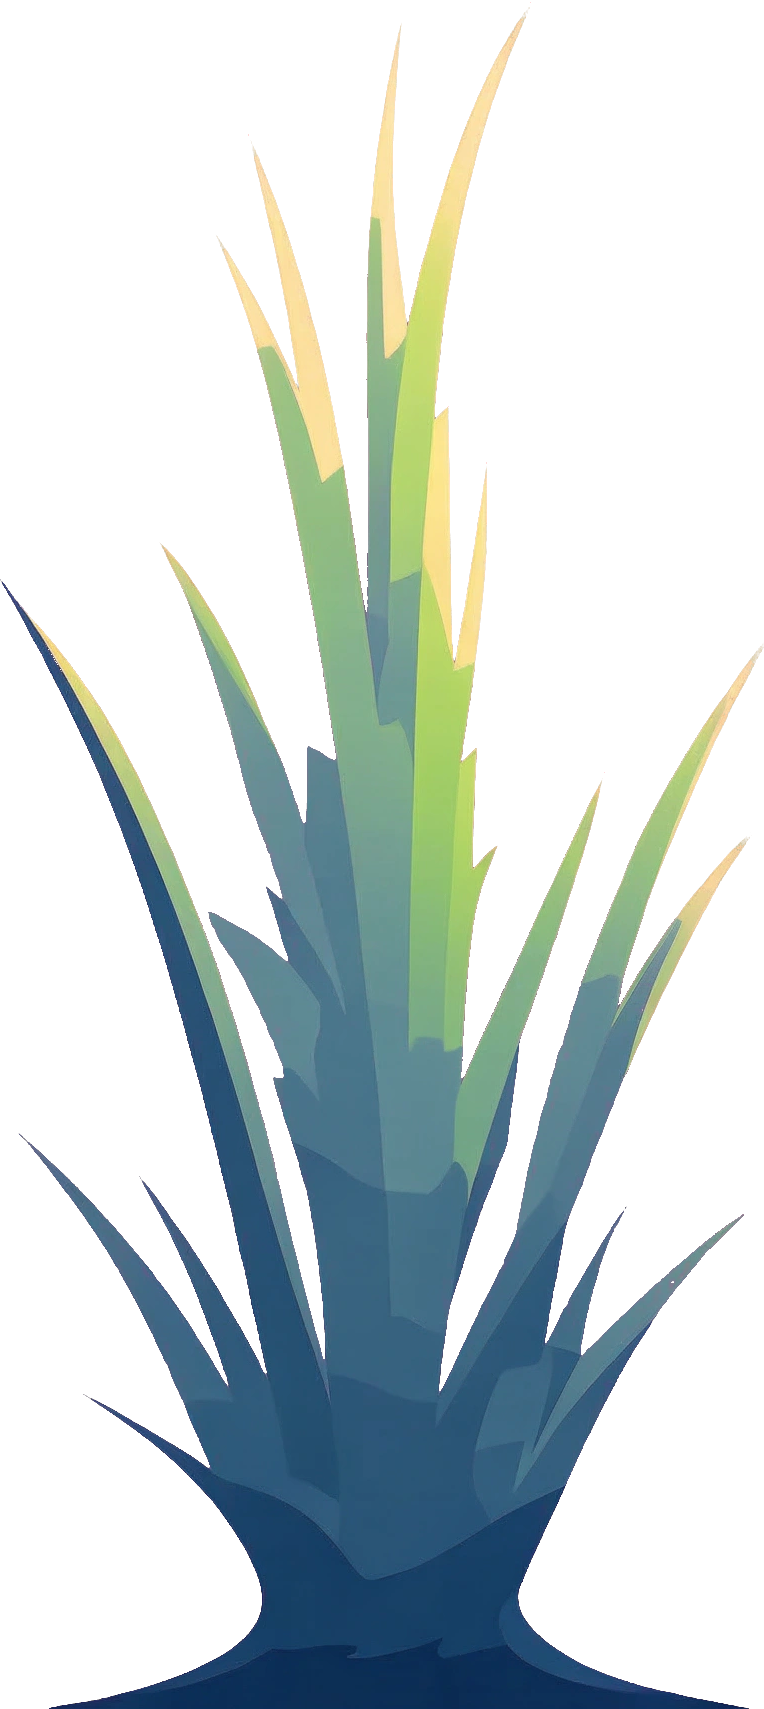
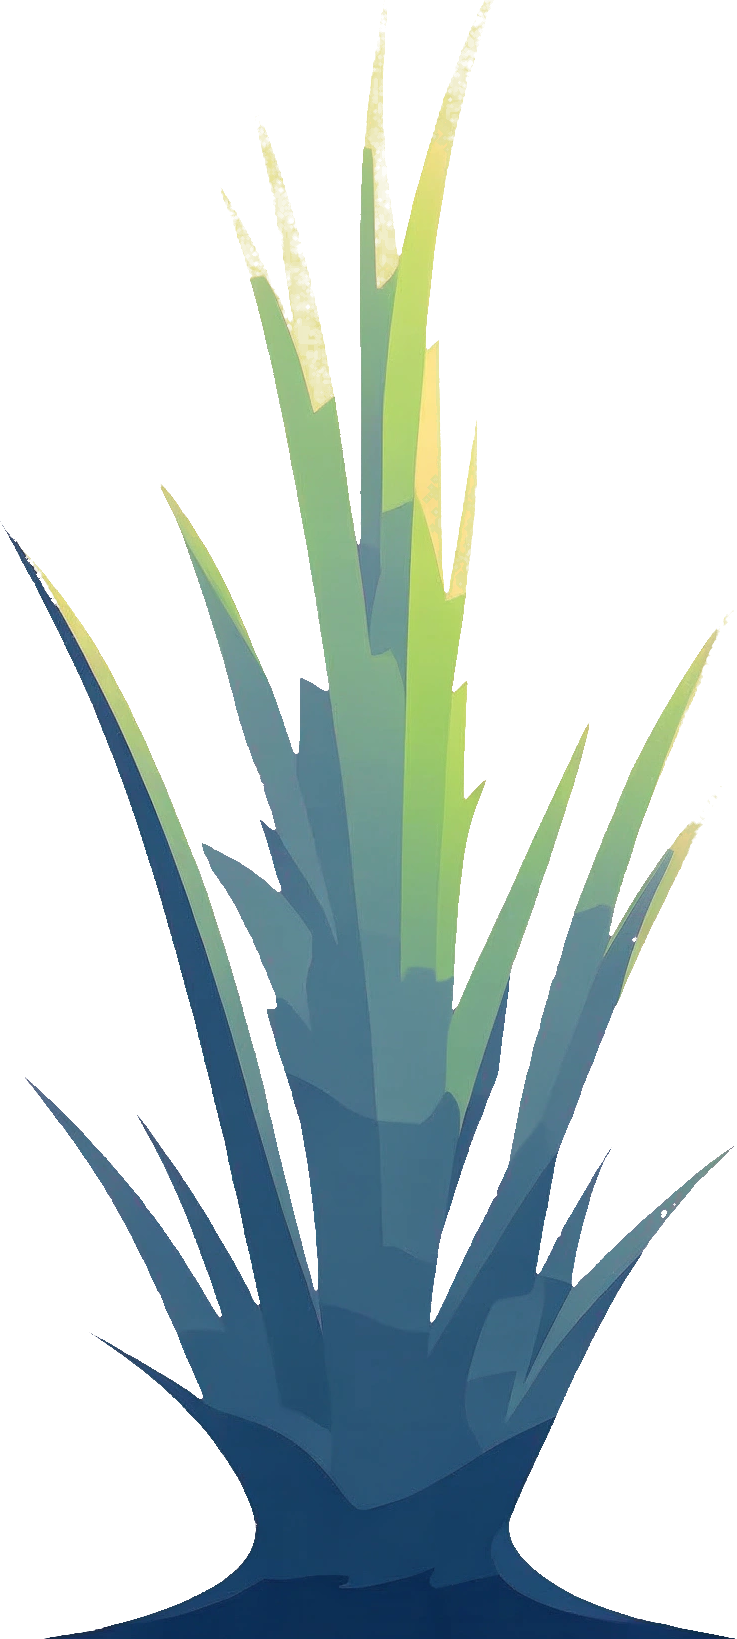
world: grade by ramp, real terrain, collision, and a foreground
Eight things were wrong and most of them were one mistake each.

Colour was rotated by hue and dimmed by brightness. That can never make a
grey log brown — grey has no hue to turn — and dimming only fades a picture
toward grey, which is why the dark moods came out pale and flat. Replaced with
a gradient map: each pixel looks up its own lightness in a five-stop ramp
belonging to the mood, so black lands on the mood's black and the whole frame
gains contrast instead of losing it. A per-asset hue bias in the manifest gives
the log its warmth back before grading. Twenty-eight percent of the original
colour is kept so leaves still read differently from a trunk.

The ground was a screen-space band with a parallax rate I picked, so it slid
faster than the world it was supposed to be part of. It is now drawn in world
space as a heightfield, and its speed follows from the projection rather than
from a number. Bands beyond the horizon now scroll by cam.x*F/D for a stated
depth, which is the same fix.

Terrain was flat; it now moves +/-2 metres and he rolls down it. Objects had no
extent, so he walked through trunks; each asset carries solid_m and he is
stopped and deflected by it. There was no foreground at all, which is what made
the canopy overlay read as decoration — six large trees now stand between two
and six metres from the camera, cut by the frame, with him passing behind them.
Object count is down by two thirds and placed in clumps around scattered
[…]

diff --git a/tools/cut_assets.py b/tools/cut_assets.py
@@ -30,10 +30,11 @@ CUT = Path("assets/cut")
 
 # Magenta sits at ~300-330°. Everything we draw is green through blue, 80-260°.
 # A generous window still leaves a wide empty gap on either side.
-BG_HUE = 315.0
-HUE_WINDOW = 62.0      # degrees either side of BG_HUE counted as background
-MIN_SAT = 0.16         # near-grey pixels are never background, whatever the hue
-SOFT = 14.0            # degrees of feathering at the edge of the window
+BG_HUE = 318.0
+HUE_WINDOW = 78.0      # degrees either side of BG_HUE counted as background
+MIN_SAT = 0.13         # near-grey pixels are never background, whatever the hue
+SOFT = 9.0             # degrees of feathering at the edge of the window
+ERODE = 1              # pixels of alpha pulled back, to eat the last of the fringe
 
 
 def _hsv(rgb: np.ndarray) -> tuple[np.ndarray, np.ndarray, np.ndarray]:
@@ -55,6 +56,23 @@ def _hsv(rgb: np.ndarray) -> tuple[np.ndarray, np.ndarray, np.ndarray]:
     return h, s, mx
 
 
+def _erode(a: np.ndarray, n: int) -> np.ndarray:
+    """Pull the alpha edge back by n pixels.
+
+    Anti-aliasing leaves a one-pixel ring that is half object and half ground.
+    Despilling fixes its colour but not its coverage, and on something like
+    foliage — which is nearly all edge — that ring is a large fraction of the
+    silhouette and still reads as a halo. Taking the minimum over the immediate
+    neighbourhood spends one pixel of the outline to be rid of it.
+    """
+    for _ in range(n):
+        p = np.pad(a, 1, mode="edge")
+        a = np.minimum.reduce([
+            p[1:-1, 1:-1], p[:-2, 1:-1], p[2:, 1:-1], p[1:-1, :-2], p[1:-1, 2:],
+        ])
+    return a
+
+
 def _alpha(rgb: np.ndarray) -> np.ndarray:
     """1 where the object is, 0 where the magenta is, feathered between."""
     h, s, _ = _hsv(rgb)
@@ -62,27 +80,35 @@ def _alpha(rgb: np.ndarray) -> np.ndarray:
     # 0 at the centre of the window, 1 once we are SOFT degrees outside it
     a = np.clip((dist - HUE_WINDOW) / SOFT, 0.0, 1.0)
     a[s < MIN_SAT] = 1.0                                   # greys are never the ground
-    return a
+    a = _erode(a, ERODE)
+    # Push what is left of the feather to one end or the other: a half-covered
+    # pixel is the halo, and there is nothing in this style that needs one.
+    return np.clip(a * 1.45 - 0.30, 0.0, 1.0)
 
 
 def _despill(rgb: np.ndarray, a: np.ndarray) -> np.ndarray:
-    """Take the magenta back out of the edge pixels it bled into.
+    """Take the magenta back out of every pixel it bled into.
 
     An anti-aliased edge is part object, part ground, so every boundary pixel
     carries some magenta. Left alone it shows up as a pink halo the moment the
     sprite is composited over anything that is not magenta. Magenta is red and
-    blue with no green, so clamping red and blue toward green removes it without
-    touching colours that were meant to be there.
+    blue with no green, so clamping red and blue toward green removes it.
+
+    The clamp runs on a band a few pixels wide rather than only on partly
+    transparent pixels: the bleed reaches further in than the alpha edge does,
+    and a fully opaque pixel one step inside the outline is still pink. Blue is
+    given more room than red, because rock and trunk are legitimately blue and
+    nothing in this art is legitimately magenta.
     """
     out = rgb.copy()
-    edge = (a > 0.02) & (a < 0.985)
-    if not edge.any():
+    near = _erode(a, 3) < 0.999                            # within ~3px of the edge
+    if not near.any():
         return out
     g = out[..., 1]
-    cap = g + 0.06
-    for c in (0, 2):
+    for c, room in ((0, 0.02), (2, 0.12)):
         ch = out[..., c]
-        over = edge & (ch > cap)
+        cap = g + room
+        over = near & (ch > cap)
         ch[over] = cap[over]
     return out
 
